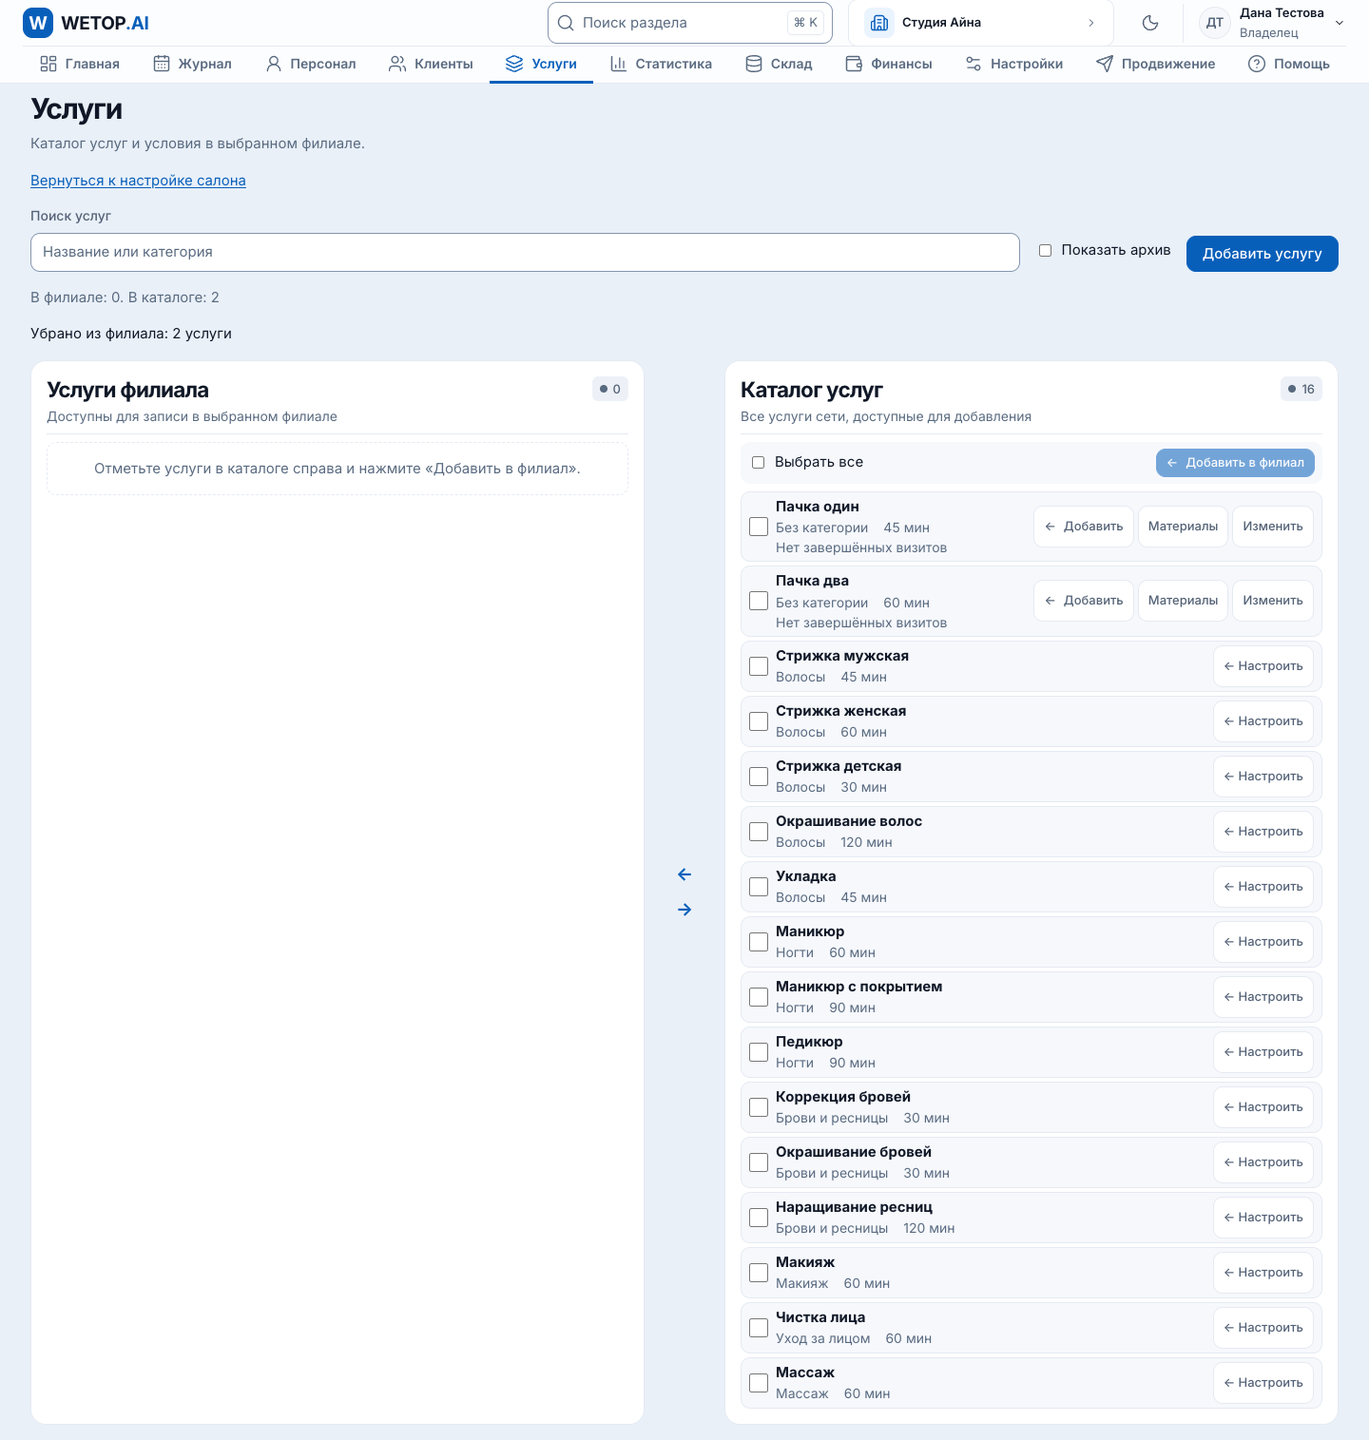
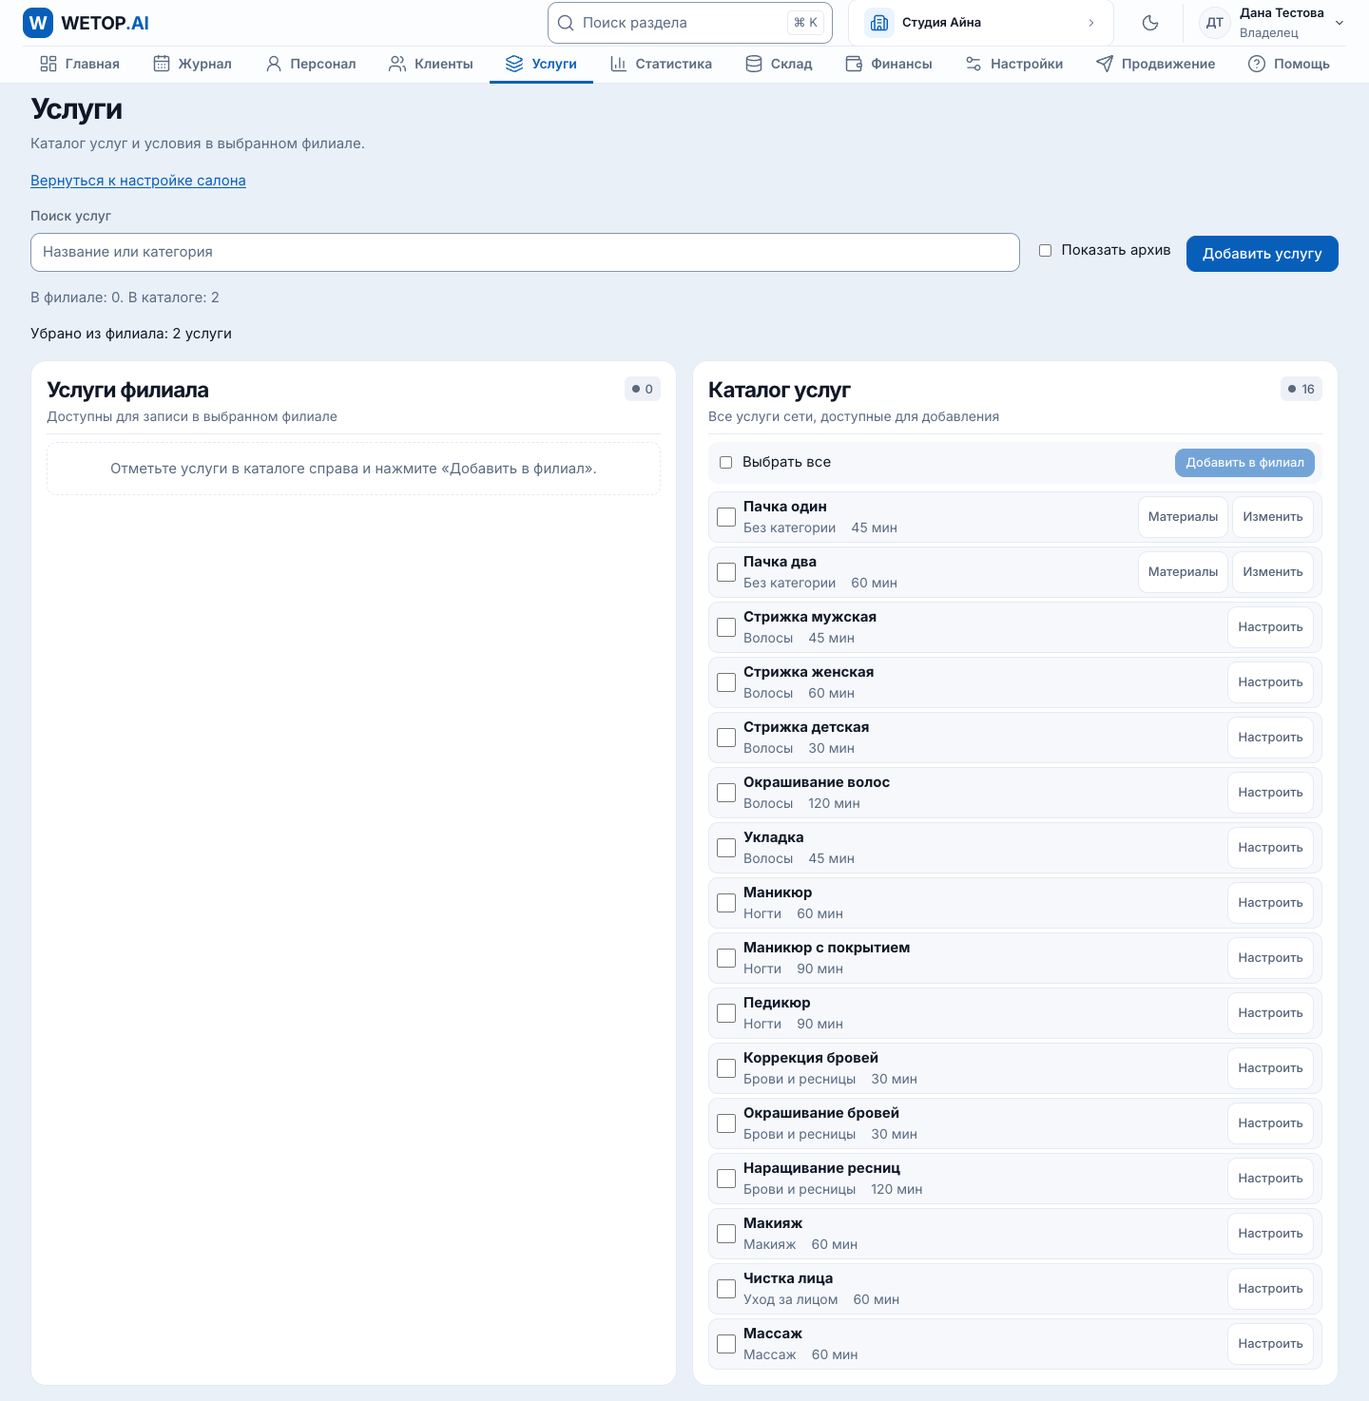
refactor(services): drop per-row arrows and extra info, keep checkboxes and one bulk button

diff --git a/apps/web/src/app/beauty/services/board.tsx b/apps/web/src/app/beauty/services/board.tsx
@@ -182,7 +182,6 @@ export function ServicesBoard({
               selectedCount={salonSelected.length}
               onToggleAll={(on) => toggleAll(salonKeys, on)}
               actionLabel="Убрать из филиала"
-              actionArrow="right"
               disabled={transferDisabled}
               onAction={() => submitBulk(salonSelected, false)}
             />
@@ -206,25 +205,11 @@ export function ServicesBoard({
                   />
                 )}
                 <ServiceIdentity row={row} location />
-                {canUpdate && (
-                  <TransferForm
-                    row={row}
-                    enabled={false}
-                    scopeKey={scopeKey}
-                    action={transferAction}
-                    disabled={transferDisabled}
-                  />
-                )}
               </article>
             ))}
             {salon.length === 0 && <p className="beauty-service-empty">Отметьте услуги в каталоге справа и нажмите «Добавить в филиал».</p>}
           </div>
         </section>
-
-        <div className="beauty-service-transfer-hint" aria-hidden="true">
-          <span>←</span>
-          <span>→</span>
-        </div>
 
         <section
           className="beauty-service-list beauty-service-list--catalog"
@@ -246,7 +231,6 @@ export function ServicesBoard({
               selectedCount={catalogSelected.length}
               onToggleAll={(on) => toggleAll(catalogKeys, on)}
               actionLabel="Добавить в филиал"
-              actionArrow="left"
               disabled={transferDisabled}
               onAction={() => submitBulk(catalogSelected, true)}
             />
@@ -273,40 +257,23 @@ export function ServicesBoard({
                       onChange={(event) => toggle(`id:${row.id}`, event.target.checked)}
                     />
                   )}
-                  <ServiceIdentity row={row} popularity locationCurrency={locationCurrency} />
-                  <div className="beauty-service-item-actions">
-                    {selectedInLocation && <Badge>В филиале</Badge>}
-                    {!row.active && <Badge>В архиве</Badge>}
-                    {canUpdate && (selectedInLocation ? (
-                      <Button type="button" size="sm" tone="secondary" disabled aria-label={`В филиале: ${row.name}`}>
-                        В филиале
+                  <ServiceIdentity row={row} popularity />
+                  {canUpdate && (
+                    <div className="beauty-service-item-actions">
+                      <Button
+                        type="button"
+                        size="sm"
+                        tone="secondary"
+                        aria-label={`Техкарта услуги: ${row.name}`}
+                        onClick={() => setMaterialService(row)}
+                      >
+                        Материалы
                       </Button>
-                    ) : row.active ? (
-                      <TransferForm
-                        row={row}
-                        enabled
-                        scopeKey={scopeKey}
-                        action={transferAction}
-                        disabled={transferDisabled}
-                      />
-                    ) : null)}
-                    {canUpdate && (
-                      <>
-                        <Button
-                          type="button"
-                          size="sm"
-                          tone="secondary"
-                          aria-label={`Техкарта услуги: ${row.name}`}
-                          onClick={() => setMaterialService(row)}
-                        >
-                          Материалы
-                        </Button>
-                        <Button type="button" size="sm" tone="secondary" onClick={() => setEditing({ mode: 'edit', row })}>
-                          Изменить
-                        </Button>
-                      </>
-                    )}
-                  </div>
+                      <Button type="button" size="sm" tone="secondary" onClick={() => setEditing({ mode: 'edit', row })}>
+                        Изменить
+                      </Button>
+                    </div>
+                  )}
                 </article>
               );
             })}
@@ -339,7 +306,7 @@ export function ServicesBoard({
                     aria-label={`Настроить и добавить в филиал: ${preset.name}`}
                     onClick={() => setEditing({ mode: 'new', preset, enableForLocation: true })}
                   >
-                    ← Настроить
+                    Настроить
                   </Button>
                 </div>}
               </article>
@@ -396,46 +363,12 @@ function locationTransferFormData(row: BeautyServiceRow, enabled: boolean, scope
   return form;
 }
 
-function TransferForm({
-  row,
-  enabled,
-  scopeKey,
-  action,
-  disabled,
-}: {
-  row: BeautyServiceRow;
-  enabled: boolean;
-  scopeKey: string;
-  action: (payload: FormData) => void;
-  disabled: boolean;
-}) {
-  return (
-    <form action={action} className="beauty-service-transfer-form">
-      <input type="hidden" name="id" value={row.id} />
-      <input type="hidden" name="scopeKey" value={scopeKey} />
-      <input type="hidden" name="priceOverrideMinor" value={row.location?.priceOverrideMinor ?? ''} />
-      <input type="hidden" name="durationOverrideMinutes" value={row.location?.durationOverrideMinutes ?? ''} />
-      {enabled && <input type="hidden" name="enabled" value="on" />}
-      <Button
-        type="submit"
-        size="sm"
-        tone="secondary"
-        disabled={disabled}
-        aria-label={`${enabled ? 'Добавить в филиал' : 'Убрать из филиала'}: ${row.name}`}
-      >
-        {enabled && <span aria-hidden="true">←</span>}{enabled ? 'Добавить' : 'Убрать'}{!enabled && <span aria-hidden="true">→</span>}
-      </Button>
-    </form>
-  );
-}
-
 function SelectionBar({
   label,
   keys,
   selectedCount,
   onToggleAll,
   actionLabel,
-  actionArrow,
   disabled,
   onAction,
 }: {
@@ -444,7 +377,6 @@ function SelectionBar({
   selectedCount: number;
   onToggleAll: (on: boolean) => void;
   actionLabel: string;
-  actionArrow: 'left' | 'right';
   disabled: boolean;
   onAction: () => void;
 }) {
@@ -461,10 +393,8 @@ function SelectionBar({
         {selectedCount > 0 ? `Выбрано: ${selectedCount}` : 'Выбрать все'}
       </label>
       <Button type="button" size="sm" disabled={disabled || selectedCount === 0} onClick={onAction}>
-        {actionArrow === 'left' && <span aria-hidden="true">←</span>}
         {actionLabel}
         {selectedCount > 0 ? ` (${selectedCount})` : ''}
-        {actionArrow === 'right' && <span aria-hidden="true">→</span>}
       </Button>
     </div>
   );
@@ -474,12 +404,10 @@ function ServiceIdentity({
   row,
   location = false,
   popularity = false,
-  locationCurrency,
 }: {
   row: BeautyServiceRow;
   location?: boolean;
   popularity?: boolean;
-  locationCurrency?: string | null;
 }) {
   // Цены в списках не показываются: их правят вручную в карточке услуги. Только если у услуги филиала цена
   // ещё не задана (типовая, добавленная пачкой), строка просит её указать, чтобы запись не шла за 0.
@@ -493,20 +421,13 @@ function ServiceIdentity({
       {location && row.effective && !row.effective.sellable && (
         <small>{NOT_SELLABLE[row.effective.reason] ?? 'Не продаётся'}</small>
       )}
-      {popularity && (
-        row.popularity ? row.popularity.totalCompletedVisits > 0 ? (
-          <div className="beauty-popularity">
-            <b>{new Intl.NumberFormat('ru-RU', { maximumFractionDigits: 1 }).format(
-              row.popularity.completedVisits * 100 / row.popularity.totalCompletedVisits,
-            )}%</b>
-            <progress
-              aria-label={`Доля завершённых визитов услуги ${row.name}`}
-              value={row.popularity.completedVisits}
-              max={row.popularity.totalCompletedVisits}
-            />
-            <small>{row.popularity.completedVisits} из {row.popularity.totalCompletedVisits} завершённых визитов</small>
-          </div>
-        ) : <small>Нет завершённых визитов</small> : <small>{locationCurrency ? 'Нет данных' : 'Выберите филиал'}</small>
+      {popularity && row.popularity && row.popularity.totalCompletedVisits > 0 && (
+        <small>
+          {new Intl.NumberFormat('ru-RU', { maximumFractionDigits: 1 }).format(
+            (row.popularity.completedVisits * 100) / row.popularity.totalCompletedVisits,
+          )}
+          % визитов
+        </small>
       )}
     </div>
   );

diff --git a/tests/ui/beauty-catalog.spec.ts b/tests/ui/beauty-catalog.spec.ts
@@ -161,7 +161,7 @@ test('услуга каталога добавляется и видна в сп
   // цены в списках не показываются: их правят вручную в карточке услуги (решение владельца 21.10.2026)
   await expect(item).not.toContainText('8 000');
   // Услуга уже есть в общем каталоге, но филиал добавляет её отдельно.
-  await expect(item.getByRole('button', { name: 'Добавить в филиал: Маникюр' })).toBeVisible();
+  await expect(item.getByLabel('Выбрать: Маникюр')).toBeEnabled();
   await page.screenshot({ path: `${SNAPSHOTS}/services-1440.png`, fullPage: true });
 });
 
@@ -188,7 +188,7 @@ test('филиал включает услугу и ставит свою цен
   await expect(salonItem).toContainText('90 мин');
   await expect(salonItem).not.toContainText('9 500');
   await expect(
-    main.locator('[data-service-list="catalog"]').getByRole('button', { name: 'В филиале: Маникюр' }),
+    main.locator('[data-service-list="catalog"]').getByLabel('Выбрать: Маникюр', { exact: true }),
   ).toBeDisabled();
 });
 
@@ -211,11 +211,12 @@ test('каталог переносит услуги кнопками и drag-an
   expect(desktopCatalogBox).not.toBeNull();
   expect(desktopSalonBox!.x).toBeLessThan(desktopCatalogBox!.x);
 
-  await catalog.getByRole('button', { name: 'Добавить в филиал: Услуга стрелкой' }).click();
+  await catalog.getByLabel('Выбрать: Услуга стрелкой').check();
+  await catalog.getByRole('button', { name: /^Добавить в филиал/ }).click();
   await expect(
     salon.locator('.beauty-service-item').filter({ hasText: 'Услуга стрелкой' }),
   ).toBeVisible();
-  await expect(catalog.getByRole('button', { name: 'В филиале: Услуга стрелкой' })).toBeDisabled();
+  await expect(catalog.getByLabel('Выбрать: Услуга стрелкой')).toBeDisabled();
 
   await catalog
     .locator('.beauty-service-item')
@@ -226,7 +227,7 @@ test('каталог переносит услуги кнопками и drag-an
   await expect(
     salon.locator('.beauty-service-item').filter({ hasText: 'Услуга перетаскиванием' }),
   ).toBeVisible();
-  await expect(catalog.getByRole('button', { name: 'В филиале: Услуга перетаскиванием' })).toBeDisabled();
+  await expect(catalog.getByLabel('Выбрать: Услуга перетаскиванием')).toBeDisabled();
 
   await salon
     .locator('.beauty-service-item')
@@ -235,7 +236,7 @@ test('каталог переносит услуги кнопками и drag-an
   await expect(
     salon.locator('.beauty-service-item').filter({ hasText: 'Услуга перетаскиванием' }),
   ).toHaveCount(0);
-  await expect(catalog.getByRole('button', { name: 'Добавить в филиал: Услуга перетаскиванием' })).toBeVisible();
+  await expect(catalog.getByLabel('Выбрать: Услуга перетаскиванием')).toBeEnabled();
   await page.screenshot({ path: `${SNAPSHOTS}/services-transfer-1440.png`, fullPage: true });
 
   await page.setViewportSize({ width: 390, height: 844 });
@@ -245,7 +246,7 @@ test('каталог переносит услуги кнопками и drag-an
   expect(mobileCatalogBox).not.toBeNull();
   expect(mobileSalonBox!.y).toBeLessThan(mobileCatalogBox!.y);
   expect(await page.evaluate(() => document.documentElement.scrollWidth <= innerWidth)).toBe(true);
-  await expect(catalog.getByRole('button', { name: 'Добавить в филиал: Услуга перетаскиванием' })).toBeVisible();
+  await expect(catalog.getByLabel('Выбрать: Услуга перетаскиванием')).toBeEnabled();
   await page.screenshot({ path: `${SNAPSHOTS}/services-transfer-390.png`, fullPage: true });
 });
 
@@ -274,7 +275,7 @@ test('Услуги: отмеченные галочкой переносятся
   await expect(row(salon, 'Пачка один')).toBeVisible();
   await expect(row(salon, 'Пачка два')).toBeVisible();
   await expect(main.getByRole('status').filter({ hasText: 'Добавлено в филиал: 2 услуги' })).toBeVisible();
-  await expect(catalog.getByRole('button', { name: 'В филиале: Пачка один' })).toBeDisabled();
+  await expect(catalog.getByLabel('Выбрать: Пачка один')).toBeDisabled();
 
   // переносится на сервере: после перезагрузки услуги остались в филиале
   await page.reload();
@@ -285,7 +286,7 @@ test('Услуги: отмеченные галочкой переносятся
   await salon.getByRole('button', { name: /^Убрать из филиала/ }).first().click();
   await expect(row(salon, 'Пачка один')).toHaveCount(0);
   await expect(row(salon, 'Пачка два')).toHaveCount(0);
-  await expect(catalog.getByRole('button', { name: 'Добавить в филиал: Пачка один' })).toBeVisible();
+  await expect(catalog.getByLabel('Выбрать: Пачка один')).toBeEnabled();
   await page.screenshot({ path: `${SNAPSHOTS}/services-bulk-1440.png`, fullPage: true });
 });
 

diff --git a/apps/web/src/app/beauty/services/dual-list.test.ts b/apps/web/src/app/beauty/services/dual-list.test.ts
@@ -73,23 +73,19 @@ describe('Услуги салона и общий каталог', () => {
     expect(html).toContain('Показать архив');
   });
 
-  it('оставляет стрелкам доступные кнопки и передаёт точные настройки филиала', () => {
+  it('не рисует стрелок и кнопок на каждой строке: перенос только галочками и общей кнопкой', () => {
     const html = renderToStaticMarkup(createElement(ServicesBoard, {
       canEdit: true,
       locationCurrency: 'KZT',
       scopeKey: 'business:location',
       items: [
-        service('selected', 'Стрижка выбранная', { enabled: true, override: '125050', minutes: 75 }),
+        service('selected', 'Стрижка выбранная', { enabled: true }),
         service('available', 'Стрижка доступная', { enabled: false }),
       ],
     }));
-
-    expect(html).toContain('aria-label="Убрать из филиала: Стрижка выбранная"');
-    expect(html).toContain('aria-label="Добавить в филиал: Стрижка доступная"');
-    expect(html).toContain('aria-label="В филиале: Стрижка выбранная"');
-    expect(html).toContain('name="priceOverrideMinor" value="125050"');
-    expect(html).toContain('name="durationOverrideMinutes" value="75"');
-    expect(html).toContain('name="scopeKey" value="business:location"');
+    expect(html).not.toContain('←');
+    expect(html).not.toContain('→');
+    expect(html).not.toContain('Добавить в филиал: Стрижка доступная');
     expect(html).toContain('draggable="true"');
   });
 

diff --git a/apps/web/src/app/beauty/services/popularity.test.ts b/apps/web/src/app/beauty/services/popularity.test.ts
@@ -16,12 +16,12 @@ describe('Доля завершённых визитов в каталоге', (
     const html = renderToStaticMarkup(createElement(ServicesBoard, { canEdit: false, locationCurrency: 'KZT',
       items: [{ ...row, popularity: { completedVisits: 3, totalCompletedVisits: 4 } }] }));
     expect(html).toContain('75%');
-    expect(html).toContain('3 из 4 завершённых визитов');
+    expect(html).toContain('визитов');
   });
-  it('при нулевом числе визитов сообщает об отсутствии данных', () => {
+  it('при нулевом числе визитов ничего не показывает', () => {
     const html = renderToStaticMarkup(createElement(ServicesBoard, { canEdit: false, locationCurrency: 'KZT',
       items: [{ ...row, popularity: { completedVisits: 0, totalCompletedVisits: 0 } }] }));
-    expect(html).toContain('Нет завершённых визитов');
+    expect(html).not.toContain('визитов');
     expect(html).not.toContain('NaN');
   });
 });

diff --git a/apps/web/src/app/beauty/services/services.css b/apps/web/src/app/beauty/services/services.css
@@ -26,7 +26,7 @@
 
   .beauty-service-transfer-board {
     display: grid;
-    grid-template-columns: minmax(0, 1fr) 52px minmax(0, 1fr);
+    grid-template-columns: repeat(2, minmax(0, 1fr));
     gap: var(--space-4);
     align-items: stretch;
     margin-top: var(--space-4);
@@ -163,15 +163,6 @@
     display: flex;
   }
 
-  .beauty-service-transfer-hint {
-    display: grid;
-    place-content: center;
-    gap: var(--space-2);
-    color: var(--primary);
-    font-size: var(--text-xl);
-    font-weight: var(--weight-bold);
-  }
-
   .beauty-service-empty {
     margin: 0;
     padding: var(--space-4);
@@ -264,21 +255,7 @@
       grid-row: 1;
     }
 
-    .beauty-service-transfer-hint {
-      display: none;
-    }
-
-    .beauty-service-list--catalog {
-      grid-row: 2;
-    }
-
-    .beauty-material-stock,
-    .beauty-material-cost {
-      align-self: start;
-    }
-  }
-
-  @media (max-width: 600px) {
+    @media (max-width: 600px) {
     .beauty-service-list {
       padding: var(--space-2);
     }

diff --git a/tests/beauty-ui/tz12-catalog.spec.ts b/tests/beauty-ui/tz12-catalog.spec.ts
@@ -41,7 +41,7 @@ test('catalog services branch price duration precede secondary full catalog data
   const catalogItem = catalog.locator('.beauty-service-item').filter({ hasText: 'Тест стрижка' });
   await expect(salonItem).toContainText('75 мин');
   await expect(catalogItem).toContainText('60 мин');
-  await expect(catalogItem).toContainText('Нет завершённых визитов');
+  await expect(catalogItem).not.toContainText('Нет завершённых визитов');
   await expect(catalogItem).not.toContainText('0%');
 });
 
